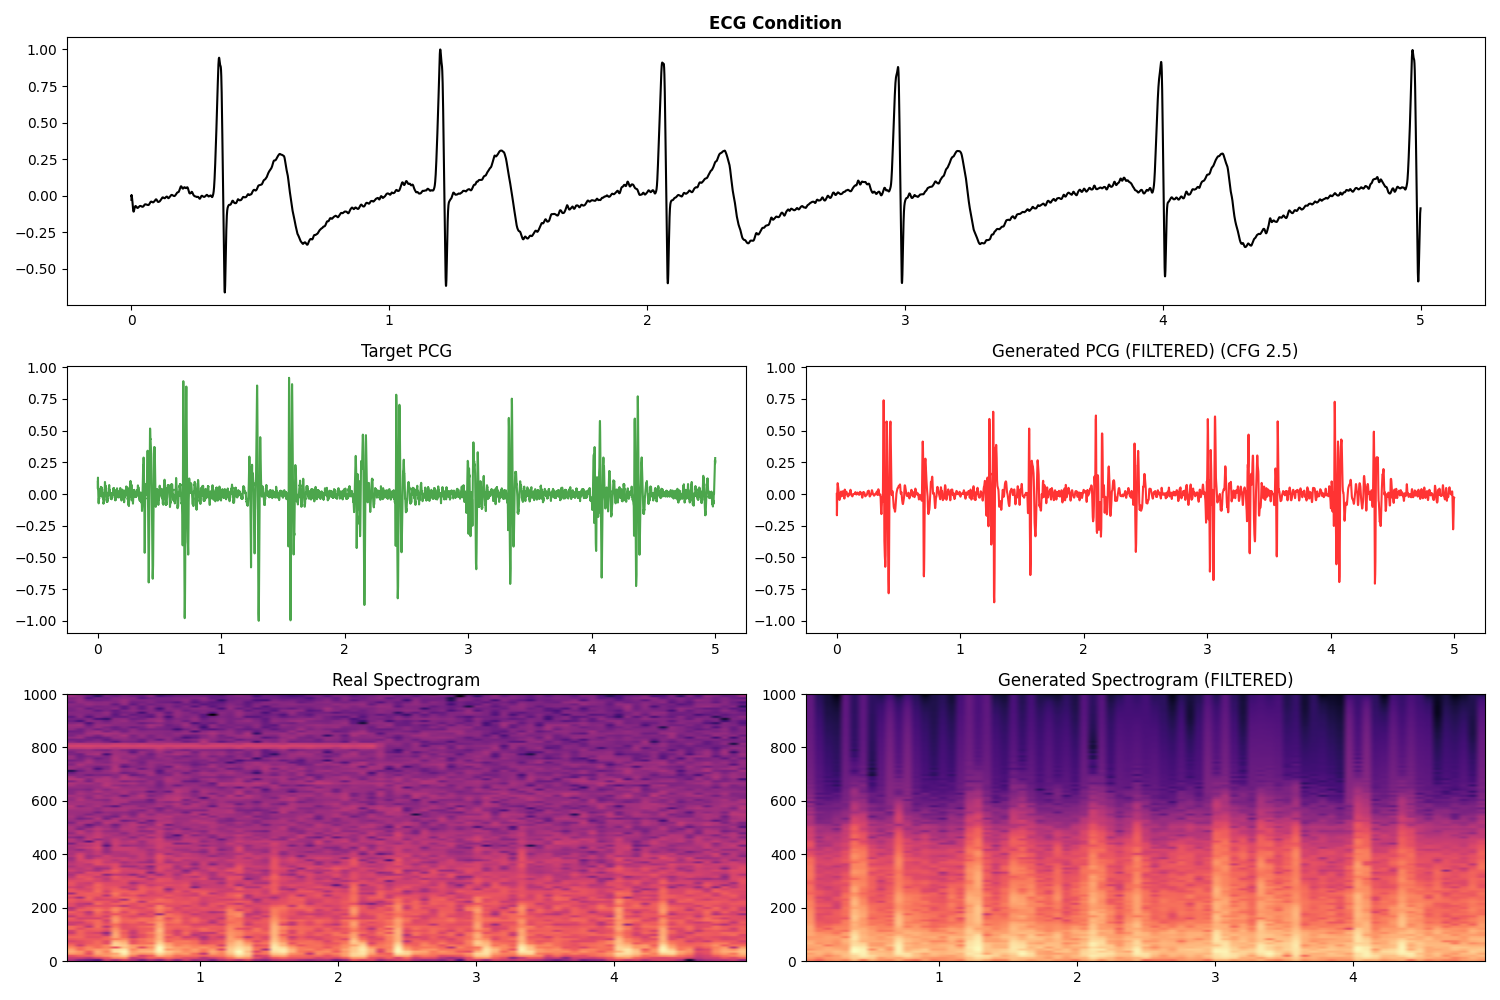
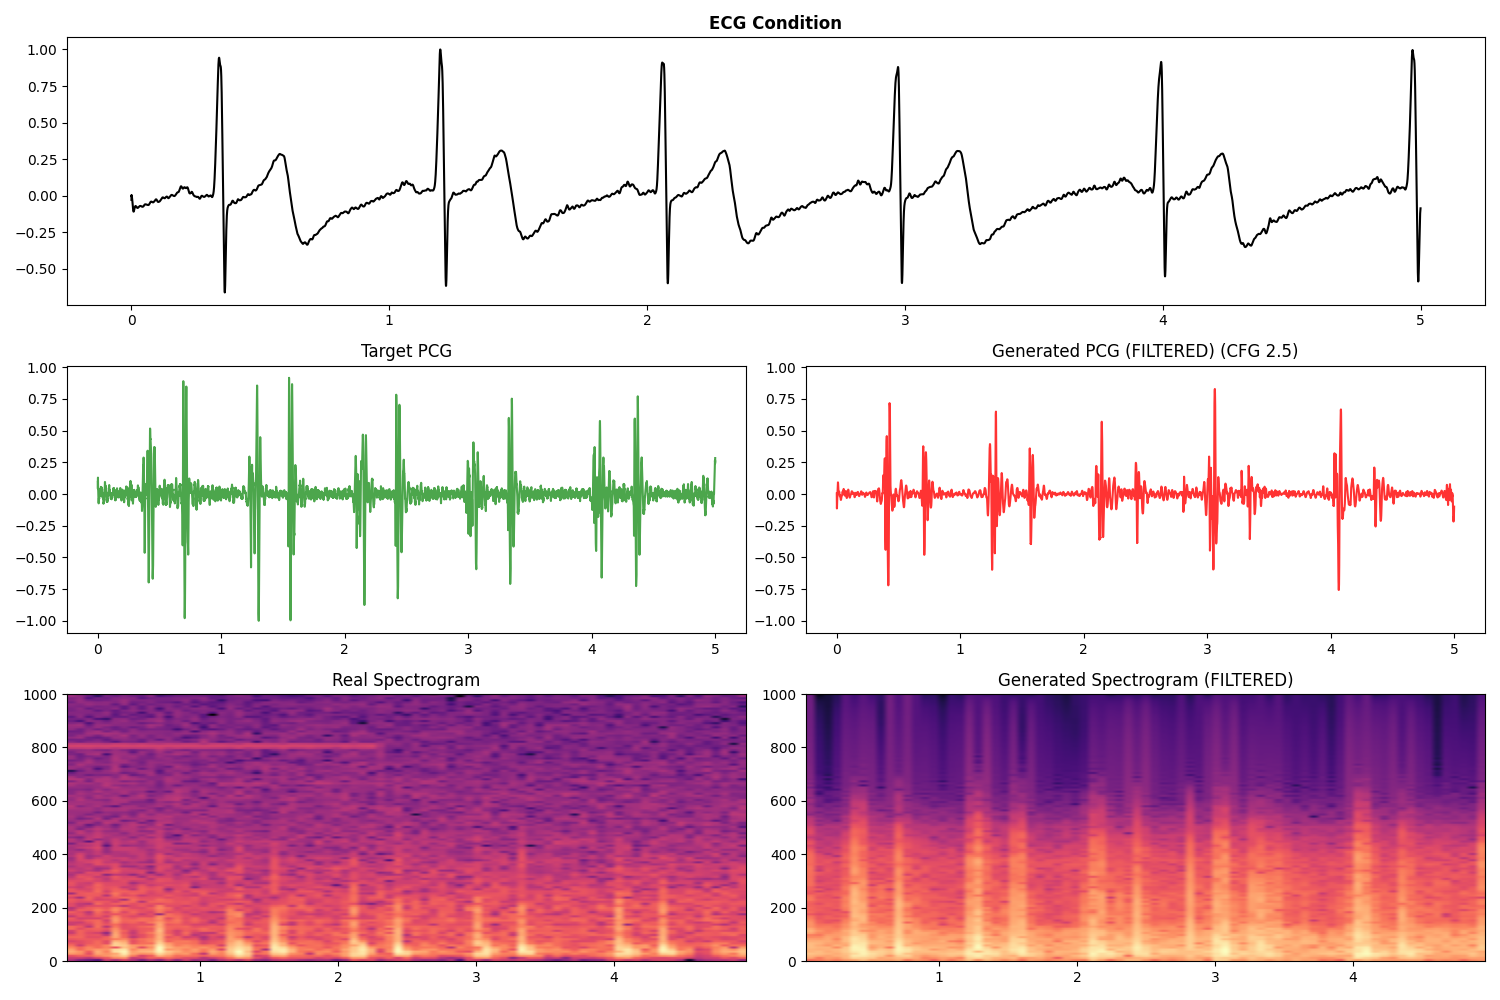
ECG in AdaLN added

diff --git a/src/cfg_scale_ablation.py b/src/cfg_scale_ablation.py
@@ -26,12 +26,10 @@ def run_evaluation_tests(steps, scale):
     vae.load_state_dict(torch.load(Config.CHECK_DIR / cfg_models["paths"]["vae_checkpoint"], map_location=device))
     
     ecg_encoder = Encoder1D(in_channels=1, base_channels=32, z_dim=16).to(device)
-    transformer = FlowTransformer(
-        in_channels=32, 
-        hidden_size=cfg_models["rf"]["hidden_size"], 
-        depth=cfg_models["rf"]["depth"], 
-        num_heads=cfg_models["rf"]["num_heads"]
-    ).to(device)
+    transformer = FlowTransformer(in_channels=16, ecg_channels=16,
+                hidden_size=cfg_models["rf"]["hidden_size"], 
+                depth=cfg_models["rf"]["depth"], 
+                num_heads=cfg_models["rf"]["num_heads"]).to(device)
     
     checkpoint = torch.load(Config.CHECK_DIR / cfg_models['paths']['flow_checkpoint'], map_location=device)
     ecg_encoder.load_state_dict(checkpoint['ecg_encoder'])
@@ -65,7 +63,7 @@ def run_evaluation_tests(steps, scale):
                 t = torch.full((B*2,), i/steps, device=device)
                 z_in = torch.cat([z, z], dim=0)
                 c_in = torch.cat([cond, uncond], dim=0)
-                v_pred = transformer(torch.cat([z_in, c_in], dim=1), t)
+                v_pred = transformer(x=z_in, t=t, c_ecg=c_in)
                 v_c, v_u = v_pred.chunk(2)
                 v = v_u + scale * (v_c - v_u)
                 z = z + v * dt
@@ -112,6 +110,3 @@ if __name__ == "__main__":
         pd.DataFrame(final_results).to_csv("cfg_scale_results/scale_metrics.csv", index=False)
     
     print("\nCFG Scale test finished")
-        
-
-

diff --git a/generate.py b/generate.py
@@ -33,7 +33,7 @@ def generate_pcg():
 
     # Load ECG Encoder and Transformer
     ecg_encoder = Encoder1D(in_channels=1, base_channels=32, z_dim=16).to(device)
-    transformer = FlowTransformer(in_channels=32, 
+    transformer = FlowTransformer(in_channels=16, ecg_channels=16,
                 hidden_size=cfg_models["rf"]["hidden_size"], 
                 depth=cfg_models["rf"]["depth"], 
                 num_heads=cfg_models["rf"]["num_heads"]).to(device)
@@ -76,8 +76,7 @@ def generate_pcg():
             cond_doubled = torch.cat([cond, uncond], dim=0)
             t_doubled = torch.full((B * 2,), t_val, device=device)
 
-            model_in = torch.cat([z_doubled, cond_doubled], dim=1)
-            v_pred_doubled = transformer(model_in, t_doubled)
+            v_pred_doubled = transformer(x=z_doubled, t=t_doubled, c_ecg=cond_doubled)
 
             v_cond, v_uncond = v_pred_doubled.chunk(2, dim=0)
 